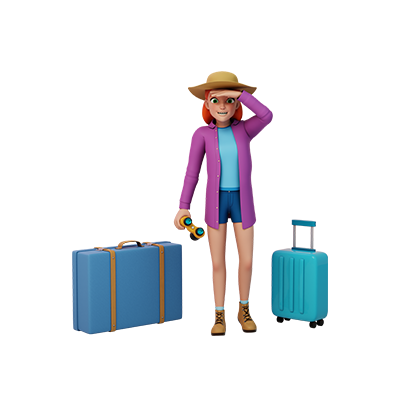
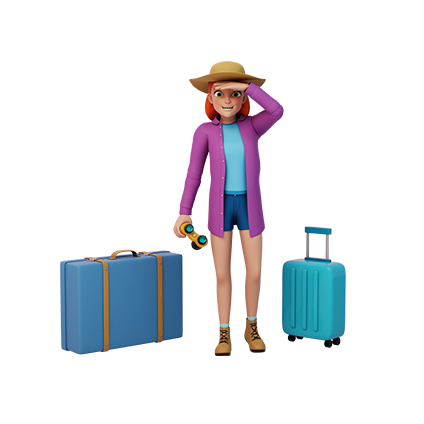
updted images

Changed region(s): [[0.12, 0.12, 0.84, 0.84]]

diff --git a/src/Components/numberComponent.jsx b/src/Components/numberComponent.jsx
@@ -1,5 +1,5 @@
 import React, { useEffect, useState } from "react";
-import { FaGoogle, FaInstagram, FaSmile, FaGlobe } from "react-icons/fa";
+
 import CommonHeading from "./ReuseComponent/CommonHeading";
 
 const numbers = [
@@ -7,25 +7,25 @@ const numbers = [
     title: "Reviews",
     value: 800,
     suffix: "+",
-    icon: <FaGoogle size={60} />,
+   img: "/images/icons/google.webp",
   },
   {
     title: "Followers",
     value: 10000,
     suffix: "+",
-    icon: <FaInstagram size={60} />,
+  img: "/images/icons/insta.webp",
   },
   {
     title: "Happy Customers",
     value: 4500,
     suffix: "+",
-    icon: <FaSmile size={60} />,
+img: "/images/icons/smile.webp",
   },
   {
     title: "Countries Served",
     value: 35,
     suffix: "+",
-    icon: <FaGlobe size={60} />,
+    img: "/images/icons/world.webp",
   },
 ];
 
@@ -75,7 +75,11 @@ const NumberComponent = () => {
         {numbers.map((item, index) => (
           <div key={index} className="p-4">
             <div className="text-green-600 mb-2 flex justify-center">
-              {item.icon}
+               <img
+    src={item.img}
+    alt="icon"
+    className="w-half h-half"
+  />
             </div>
             <h2 className="text-3xl font-bold">
               {formatNumber(counts[index])}
